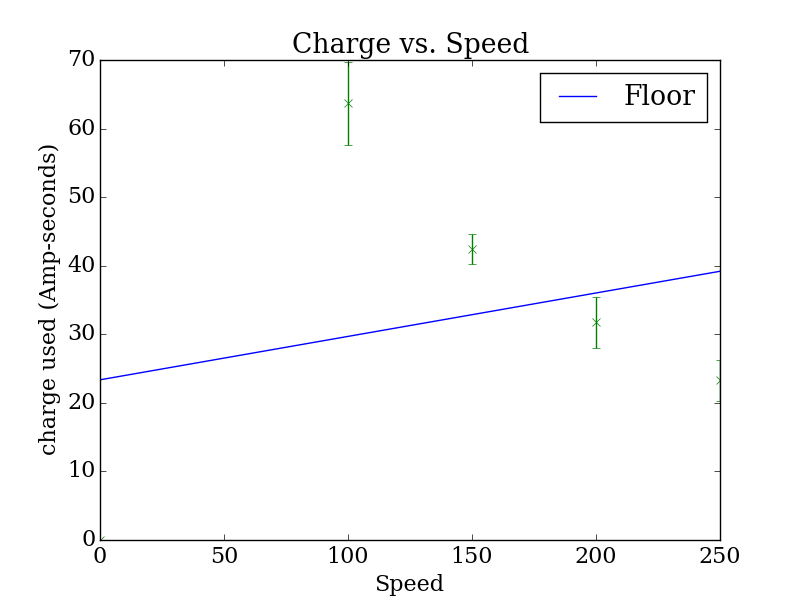
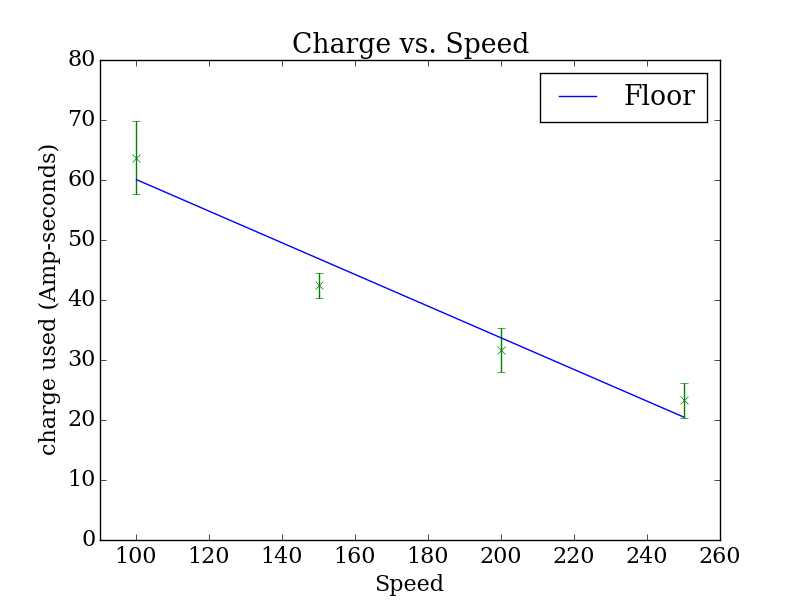
Updated mapping and charge v speed

diff --git a/Jackie/Charge_Experiment/plot_speed_charge.py b/Jackie/Charge_Experiment/plot_speed_charge.py
@@ -15,8 +15,8 @@ import os.path
 
 #lengths = numpy.array([13, 23, 33, 43, 53])
 #lengths = numpy.array([13])
-mn = numpy.zeros(5)
-st = numpy.zeros(5)
+mn = numpy.zeros(4)
+st = numpy.zeros(4)
 dist = numpy.array([100,150,200,250])
 
 for ind, j  in enumerate(dist):
@@ -56,15 +56,18 @@ for ind, j  in enumerate(dist):
 
     #print(charge_totals)
     #print(numpy.size(charge_totals))    
-    mn[ind+1] = numpy.mean(charge_totals)
-    st[ind+1] = numpy.std(charge_totals)
+    #mn[ind+1] = numpy.mean(charge_totals)
+    #st[ind+1] = numpy.std(charge_totals)
+    mn[ind] = numpy.mean(charge_totals)
+    st[ind] = numpy.std(charge_totals)    
     
-l = numpy.append([0], dist) 
-m, b = numpy.polyfit(l, mn, 1)
+#l = numpy.append([0], dist) 
+m, b = numpy.polyfit(dist, mn, 1)
 pyplot.figure()
-pyplot.plot(l, m*l+b, label = 'Floor')
+pyplot.plot(dist, m*dist+b, label = 'Floor')
 #pyplot.plot(l, m*l+b, label = 'Lab Floor')
-pyplot.errorbar(l, mn, yerr = st, fmt = 'x')
+pyplot.errorbar(dist, mn, yerr = st, fmt = 'x')
+pyplot.axis([90, 260, 0, 80])
 pyplot.title('Charge vs. Speed')
 pyplot.xlabel('Speed')
 pyplot.ylabel('charge used (Amp-seconds)')
